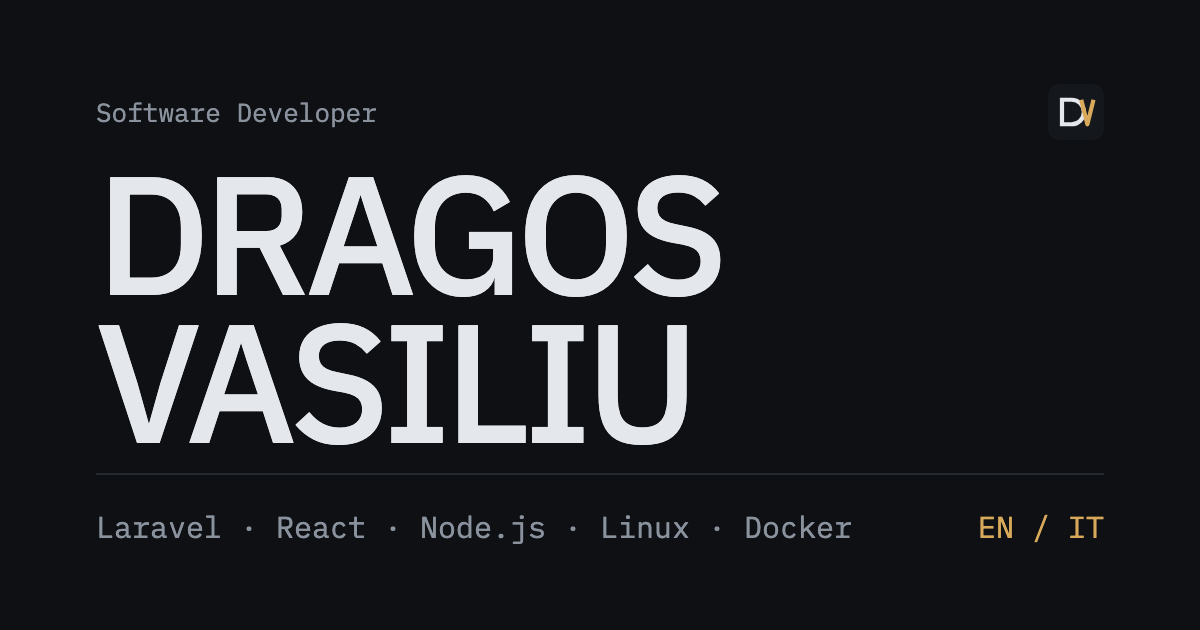
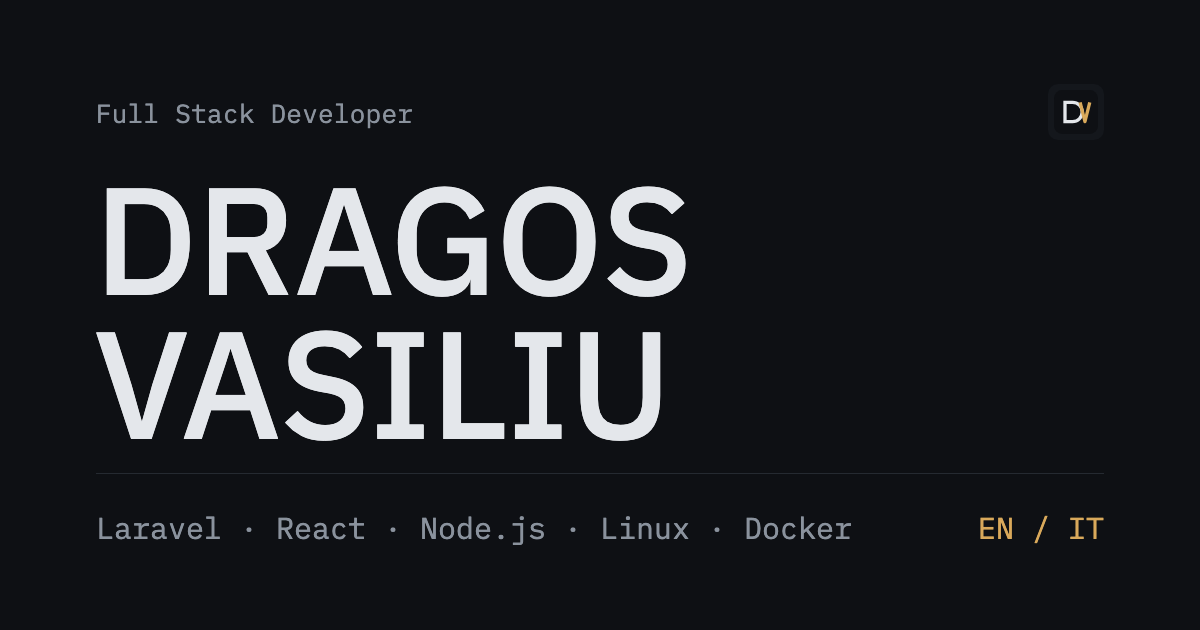
Update the role title, experience, projects, stack and education

diff --git a/src/data/experience.ts b/src/data/experience.ts
@@ -14,7 +14,7 @@ export interface Role {
 
 export const experience: Role[] = [
   {
-    role: 'Software Developer',
+    role: 'Full Stack Developer',
     company: 'PARENTESIKUADRA',
     start: '2023-12',
     end: null,
@@ -22,26 +22,30 @@ export const experience: Role[] = [
     arrangement: { en: 'Hybrid', it: 'Ibrido' },
     points: {
       en: [
-        'Develop and maintain Laravel applications in production, with React and Inertia.js frontends; main author of several of them and of the internal template new projects start from.',
-        'Sole developer of Klancy, a multi-tenant application built on WebSockets, including configuration and customisation for individual clients.',
+        'Develop and maintain Laravel applications in production, with React and Inertia.js frontends; main author of several of them and of the internal template 10 projects have started from.',
+        'Sole developer of Klancy, a multi-tenant SaaS used by dozens of clients, with thousands of orders a day. Migrated it from legacy PHP, with a separate repository per client, to a single codebase configured per tenant; WebSockets replaced polling.',
+        'Built a deployment panel that cut the installation of an accounting suite from 5–7 hours to under 20 minutes.',
         'Integrate external systems: Fluida and Tilby APIs, AHRW SOAP services, and XML files generated for import into G1.',
-        'Containerise applications with Docker, ship production releases, and maintain and migrate Linux/Plesk servers.',
+        'Containerise applications with Docker, ship production releases, and maintain and migrate 10 VPSs and the VMs on 2 company servers (Linux/Plesk).',
         'Diagnose frontend, backend and API issues, including Composer and npm dependency conflicts.',
+        'Work in periodic Agile sprints with colleagues on backend and frontend; helped train a junior developer in 2025–2026.',
         'Work with clients directly on requirements and support.',
       ],
       it: [
-        'Sviluppo e manutenzione di applicazioni Laravel in produzione, con frontend in React e Inertia.js; autore principale di diverse di queste e del template interno da cui partono i nuovi progetti.',
-        'Unico sviluppatore di Klancy, applicazione multi-tenant basata su WebSocket, incluse configurazioni e personalizzazioni per i singoli clienti.',
+        'Sviluppo e manutenzione di applicazioni Laravel in produzione, con frontend in React e Inertia.js; autore principale di diverse di queste e del template interno da cui sono partiti 10 progetti.',
+        'Unico sviluppatore di Klancy, SaaS multi-tenant usato da decine di clienti, con migliaia di ordini al giorno. Migrazione da PHP legacy, con un repository per ogni cliente, a un’unica codebase configurabile per cliente; i WebSocket hanno sostituito il polling.',
+        'Sviluppo di un pannello di deploy che ha ridotto l’installazione di una suite di contabilità da 5–7 ore a meno di 20 minuti.',
         'Integrazioni con sistemi esterni: API Fluida e Tilby, servizi SOAP AHRW e generazione di file XML per l’import in G1.',
-        'Containerizzazione con Docker, rilasci in produzione, manutenzione e migrazione di server Linux/Plesk.',
+        'Containerizzazione con Docker, rilasci in produzione, manutenzione e migrazione di 10 VPS e delle VM di 2 server aziendali (Linux/Plesk).',
         'Diagnosi di problemi frontend, backend e API, compresi i conflitti tra dipendenze Composer e npm.',
+        'Lavoro in Agile a sprint periodici con i colleghi su backend e frontend; contributo alla formazione di uno sviluppatore junior tra il 2025 e il 2026.',
         'Rapporto diretto con i clienti per requisiti e assistenza.',
       ],
     },
     tech: ['PHP', 'Laravel', 'React', 'Inertia.js', 'Node.js', 'PostgreSQL', 'MySQL', 'Redis', 'Docker', 'Linux', 'REST', 'Stripe', 'Pest', 'PHPStan', 'SOAP', 'XML', 'WebSockets', 'Electron'],
   },
   {
-    role: 'Junior Frontend Developer',
+    role: 'Junior Full Stack Developer',
     company: 'PARENTESIKUADRA',
     start: '2023-05',
     end: '2023-12',
@@ -49,15 +53,15 @@ export const experience: Role[] = [
     arrangement: { en: 'On-site · Internship', it: 'In sede · Tirocinio' },
     points: {
       en: [
-        'Built responsive React interfaces integrated with Laravel applications and backend services.',
-        'Frontend bug fixing and maintenance in a Git-based workflow.',
+        'Built a short-term rental management SaaS in Laravel and React: Booking and Airbnb reservations, Telegram notifications for managers and cleaning staff, tourist tax, invoice export to G1, charts and monthly statements for owners.',
+        'Digitised the production sheet of a legacy PHP application for a rubber goods manufacturer, replacing the paper one, and linked it to quotes; bug fixes and new features in its step-by-step configurator.',
       ],
       it: [
-        'Sviluppo di interfacce React responsive integrate con applicazioni Laravel e servizi backend.',
-        'Correzione di bug frontend e manutenzione con un flusso di lavoro basato su Git.',
+        'Sviluppo di un SaaS per la gestione di affitti brevi in Laravel e React: prenotazioni Booking e Airbnb, notifiche Telegram per gestori e personale delle pulizie, tassa di soggiorno, export delle fatture verso G1, grafici e rendiconti mensili per i proprietari.',
+        'Digitalizzazione della scheda di produzione in un’applicazione PHP legacy per un produttore di articoli in gomma, al posto di quella cartacea, collegata ai preventivi; correzione di bug e nuove funzionalità nel configuratore a step.',
       ],
     },
-    tech: ['React', 'JavaScript', 'HTML', 'CSS', 'Laravel', 'Git'],
+    tech: ['Laravel', 'React', 'PHP', 'JavaScript', 'Telegram', 'Git'],
   },
   {
     role: 'Junior Full Stack Developer',
@@ -68,14 +72,14 @@ export const experience: Role[] = [
     arrangement: { en: 'On-site · Full-time', it: 'In sede · Tempo pieno' },
     points: {
       en: [
-        'Developed Drupal web applications in PHP and worked on React Native mobile apps.',
-        'Bug fixes and small features, collaborating through Git.',
+        'Drupal back office for a rescue helicopter app that uses AI on images from nearby webcams to judge whether a mission can fly: PHP modules for feedback and email, CSS and JavaScript work on the operators’ interactive map.',
+        'eSports tournament app in React Native with a Drupal backend: tournament list and detail screens, credit purchases and a Stripe payment module.',
       ],
       it: [
-        'Sviluppo di applicazioni web Drupal in PHP e di app mobile in React Native.',
-        'Correzione di bug e piccole funzionalità, in collaborazione tramite Git.',
+        'Backoffice Drupal di un’app per il soccorso in elicottero che analizza con l’AI le immagini delle webcam vicine per capire se si può intervenire: moduli PHP per feedback e invio email, CSS e funzionalità JavaScript della mappa interattiva per gli operatori.',
+        'App per tornei eSports in React Native con backend Drupal: schermate dei tornei (lista e dettaglio), acquisto di crediti e modulo di pagamento Stripe.',
       ],
     },
-    tech: ['React Native', 'Drupal', 'PHP', 'JavaScript', 'SQL', 'Git'],
+    tech: ['React Native', 'Drupal', 'PHP', 'JavaScript', 'CSS', 'Stripe', 'Git'],
   },
 ];

diff --git a/src/data/projects.ts b/src/data/projects.ts
@@ -24,8 +24,8 @@ const all: Project[] = [
     year: '2023–',
     status: { en: 'In production', it: 'In produzione' },
     description: {
-      en: 'Subscription SaaS for restaurant kitchens: a live order dashboard, kitchen exit groups, network printer control and orders imported from the Tilby POS. Each tenant gets its own database, provisioned automatically. I am the only developer of the current Laravel and React version and keep it running.',
-      it: 'SaaS in abbonamento per le cucine dei ristoranti: dashboard degli ordini in tempo reale, gruppi di uscita, controllo delle stampanti di rete e ordini importati dalla cassa Tilby. Ogni tenant ha il suo database, creato in automatico. Sono l’unico sviluppatore della versione attuale in Laravel e React e ne seguo la gestione.',
+      en: 'Subscription SaaS for restaurant kitchens: a live order dashboard, kitchen exit groups, network printer control and orders imported from the Tilby POS. Each tenant gets its own database, provisioned automatically. Dozens of clients use it, with thousands of orders a day. I migrated it from legacy PHP, where every client had its own repository, to one codebase configured per tenant, with WebSockets in place of polling. I am the only developer and keep it running.',
+      it: 'SaaS in abbonamento per le cucine dei ristoranti: dashboard degli ordini in tempo reale, gruppi di uscita, controllo delle stampanti di rete e ordini importati dalla cassa Tilby. Ogni tenant ha il suo database, creato in automatico. Lo usano decine di clienti, con migliaia di ordini al giorno. L’ho migrato da PHP legacy, dove ogni cliente aveva il suo repository, a un’unica codebase configurabile per tenant, con i WebSocket al posto del polling. Sono l’unico sviluppatore e ne seguo la gestione.',
     },
     tech: ['Laravel', 'React', 'Inertia.js', 'Redis', 'WebSockets', 'PWA'],
   },
@@ -72,8 +72,8 @@ const all: Project[] = [
     year: '2026–',
     status: { en: 'Built in-house', it: 'Sviluppo interno' },
     description: {
-      en: 'Installs and maintains a vendor’s Tomcat-based HR applications on client servers, over SSH and VPN. Only allowlisted scripts run, as tracked jobs with live logs. Credentials are encrypted, backups and restores go through a queue, and installs can be dry-run first.',
-      it: 'Installa e mantiene le applicazioni HR su Tomcat di un fornitore sui server dei clienti, via SSH e VPN. Girano solo script ammessi, come job tracciati con log in diretta. Le credenziali sono cifrate, backup e ripristini passano da una coda e le installazioni si possono provare prima a vuoto.',
+      en: 'Installs and maintains a vendor’s Tomcat-based accounting suite on client servers, over SSH and VPN. Only allowlisted scripts run, as tracked jobs with live logs. Credentials are encrypted, backups and restores go through a queue, and installs can be dry-run first. An install that took 5–7 hours by hand now takes under 20 minutes.',
+      it: 'Installa e mantiene la suite di contabilità su Tomcat di un fornitore sui server dei clienti, via SSH e VPN. Girano solo script ammessi, come job tracciati con log in diretta. Le credenziali sono cifrate, backup e ripristini passano da una coda e le installazioni si possono provare prima a vuoto. Un’installazione che a mano richiedeva 5–7 ore ora ne richiede meno di 20 minuti.',
     },
     tech: ['React', 'Node.js', 'Fastify', 'BullMQ', 'Redis', 'PostgreSQL', 'Docker'],
   },
@@ -88,6 +88,18 @@ const all: Project[] = [
       it: 'Assistente locale che risponde a domande sulla documentazione di un gestionale e cita le fonti. Una pipeline di ingestione riproducibile reindicizza solo ciò che è cambiato; l’API è compatibile con OpenAI e gira su Metal, CUDA o CPU. Il prossimo passo è il retrieval a grafo.',
     },
     tech: ['Python', 'RAG', 'Qdrant', 'llama.cpp', 'Docker'],
+  },
+  {
+    slug: 'short-term-rentals',
+    name: { en: 'Short-term rental management', it: 'Gestione di affitti brevi' },
+    category: 'professional',
+    year: '2023',
+    status: { en: 'Internship', it: 'Tirocinio' },
+    description: {
+      en: 'SaaS for a company that manages holiday apartments on behalf of their owners. Reservations from Booking and Airbnb, Telegram messages for the manager and the cleaning staff, tourist tax, issued invoices exported to G1, and monthly statements with charts showing each owner what their apartments earned.',
+      it: 'SaaS per un’azienda che gestisce appartamenti per affitti brevi per conto dei proprietari. Prenotazioni da Booking e Airbnb, messaggi Telegram per il gestore e il personale delle pulizie, tassa di soggiorno, fatture emesse esportate verso G1 e rendiconti mensili con grafici che mostrano a ogni proprietario quanto hanno reso i suoi appartamenti.',
+    },
+    tech: ['Laravel', 'React', 'Inertia.js', 'Telegram', 'XML'],
   },
   {
     slug: 'portfolio',

diff --git a/src/i18n/it.ts b/src/i18n/it.ts
@@ -2,9 +2,9 @@ import type { Dictionary } from './en';
 
 const it: Dictionary = {
   meta: {
-    title: 'Dragos Vasiliu — Software Developer',
+    title: 'Dragos Vasiliu — Full Stack Developer',
     description:
-      'Dragos Vasiliu, Software Developer. Applicazioni web in produzione, integrazioni con sistemi esterni, server Linux, rilasci automatizzati e strumenti AI.',
+      'Dragos Vasiliu, Full Stack Developer. Applicazioni web in produzione, integrazioni con sistemi esterni, server Linux, rilasci automatizzati e strumenti AI.',
     ogLocale: 'it_IT',
   },
   a11y: {
@@ -22,7 +22,7 @@ const it: Dictionary = {
     sections: 'Sezioni',
   },
   hero: {
-    title: 'Software Developer',
+    title: 'Full Stack Developer',
     lead: 'Lavoro su tutto lo stack, dove serve: le applicazioni web che i clienti usano ogni giorno, le integrazioni con sistemi esterni, i server Linux su cui girano e le pipeline che le rilasciano. In parallelo, strumenti AI.',
     viewWork: 'Vedi i progetti',
     downloadCv: 'Scarica CV',
@@ -33,7 +33,7 @@ const it: Dictionary = {
     body: [
       'In PARENTESIKUADRA scrivo e mantengo gestionali in Laravel con frontend React e Inertia.js, e di diversi sono l’autore principale: tra questi Klancy, una piattaforma multi-tenant basata su WebSocket. Li collego a pagamenti, webhook, API e servizi SOAP esterni e curo i rilasci in prima persona.',
       'Mi occupo anche di quello che succede dopo. Se una pagina è lenta, un aggiornamento delle dipendenze rompe la build o un deploy si fa ancora a mano, cerco il perché e lo sistemo lì, senza toppe. Le applicazioni girano in Docker su server Linux, che mantengo e migro. Scrivo test con PHPUnit, Pest e Vitest, e lavoro anche su codice PHP legacy.',
-      'Parlo direttamente con i clienti, quindi requisiti, codice e assistenza restano nelle stesse mani. In parallelo realizzo prototipi con LLM, agenti AI, MCP e RAG, soprattutto per la ricerca nei documenti e per automatizzare parte del mio lavoro.',
+      'Parlo direttamente con i clienti, quindi requisiti, codice e assistenza restano nelle stesse mani. Con i colleghi lavoro su backend e frontend condivisi a sprint periodici, e tra il 2025 e il 2026 ho contribuito alla formazione di uno sviluppatore junior. In parallelo realizzo prototipi con LLM, agenti AI, MCP e RAG, soprattutto per la ricerca nei documenti e per automatizzare parte del mio lavoro.',
     ],
     languages: 'Lingue',
     education: 'Formazione',

diff --git a/src/i18n/en.ts b/src/i18n/en.ts
@@ -1,9 +1,9 @@
 // UI copy for English. The Italian file must satisfy the same shape (see `Dictionary`).
 const en = {
   meta: {
-    title: 'Dragos Vasiliu — Software Developer',
+    title: 'Dragos Vasiliu — Full Stack Developer',
     description:
-      'Dragos Vasiliu, Software Developer. Web applications in production, integrations with external systems, Linux servers, automated releases and AI tooling.',
+      'Dragos Vasiliu, Full Stack Developer. Web applications in production, integrations with external systems, Linux servers, automated releases and AI tooling.',
     ogLocale: 'en_GB',
   },
   a11y: {
@@ -21,7 +21,7 @@ const en = {
     sections: 'Sections',
   },
   hero: {
-    title: 'Software Developer',
+    title: 'Full Stack Developer',
     lead: 'I work across the stack, wherever the problem is: the web applications clients use every day, their integrations with external systems, the Linux servers they run on and the pipelines that ship them. On the side, AI tools.',
     viewWork: 'View work',
     downloadCv: 'Download CV',
@@ -32,7 +32,7 @@ const en = {
     body: [
       'At PARENTESIKUADRA I build and maintain Laravel business applications with React and Inertia.js frontends, and I am the main author of several of them, Klancy among them: a multi-tenant platform built on WebSockets. I connect them to payments, webhooks, third-party APIs and SOAP services, and I handle the releases myself.',
       'I also look after what happens once they are live. When a page is slow, a dependency upgrade breaks the build or a deploy is still done by hand, I track down why and fix it there, not with a workaround. The applications run in Docker on Linux servers that I maintain and migrate. I write tests with PHPUnit, Pest and Vitest, and I also work on legacy PHP code.',
-      'I talk to clients directly, so requirements, code and support stay with one person. On the side I build prototypes with LLMs, AI agents, MCP and RAG, mostly to search documents and to automate parts of my own workflow.',
+      'I talk to clients directly, so requirements, code and support stay with one person. With colleagues I work on shared backends and frontends in periodic sprints, and in 2025–2026 I helped train a junior developer. On the side I build prototypes with LLMs, AI agents, MCP and RAG, mostly to search documents and to automate parts of my own workflow.',
     ],
     languages: 'Languages',
     education: 'Education',

diff --git a/src/data/stack.ts b/src/data/stack.ts
@@ -10,13 +10,13 @@ export interface Layer {
 export const layers: Layer[] = [
   {
     name: { en: 'Interface', it: 'Interfaccia' },
-    note: { en: 'Web and desktop UIs, data-heavy tables, responsive layouts.', it: 'Interfacce web e desktop, tabelle con molti dati, layout responsive.' },
-    tech: ['React', 'Inertia.js', 'JavaScript', 'TypeScript', 'HTML', 'CSS', 'Tailwind CSS', 'TanStack Table', 'PWA', 'Electron'],
+    note: { en: 'Web, desktop and mobile UIs, data-heavy tables, responsive layouts.', it: 'Interfacce web, desktop e mobile, tabelle con molti dati, layout responsive.' },
+    tech: ['React', 'Inertia.js', 'JavaScript', 'TypeScript', 'HTML', 'CSS', 'Tailwind CSS', 'TanStack Table', 'PWA', 'Electron', 'React Native'],
   },
   {
     name: { en: 'Application', it: 'Applicazione' },
     note: { en: 'Business logic, background work, real-time, tests and static analysis.', it: 'Logica applicativa, processi in background, tempo reale, test e analisi statica.' },
-    tech: ['PHP', 'Laravel', 'Laravel Reverb', 'Node.js', 'Fastify', 'BullMQ', 'Python', 'FastAPI', 'Composer', 'npm', 'PHPUnit', 'Pest', 'Vitest', 'PHPStan'],
+    tech: ['PHP', 'Laravel', 'Laravel Reverb', 'Drupal', 'Node.js', 'Fastify', 'BullMQ', 'Python', 'FastAPI', 'Composer', 'npm', 'PHPUnit', 'Pest', 'Vitest', 'PHPStan'],
   },
   {
     name: { en: 'Data', it: 'Dati' },
@@ -26,7 +26,7 @@ export const layers: Layer[] = [
   {
     name: { en: 'Integrations', it: 'Integrazioni' },
     note: { en: 'Talking to third-party systems.', it: 'Comunicazione con sistemi di terze parti.' },
-    tech: ['REST', 'Webhooks', 'Stripe', 'SOAP', 'WebSockets', 'XML'],
+    tech: ['REST', 'Webhooks', 'Stripe', 'SOAP', 'WebSockets', 'XML', 'Telegram'],
   },
   {
     name: { en: 'Systems', it: 'Sistemi' },

diff --git a/src/data/profile.ts b/src/data/profile.ts
@@ -9,14 +9,14 @@ import type { Localized } from '~/i18n';
  */
 export const profile = {
   name: 'Dragos Vasiliu',
-  jobTitle: 'Software Developer',
+  jobTitle: 'Full Stack Developer',
   location: {
     city: 'Monferrato',
     region: { en: 'Piedmont', it: 'Piemonte' } as Localized,
     countryCode: 'IT',
     timeZone: 'Europe/Rome',
   },
-  current: { role: 'Software Developer', company: 'PARENTESIKUADRA' },
+  current: { role: 'Full Stack Developer', company: 'PARENTESIKUADRA' },
 
   email: 'vasiliu.petru.dragos@gmail.com' as string | null,
   github: 'https://github.com/DragosAlien' as string | null,
@@ -31,11 +31,18 @@ export const profile = {
     { name: { en: 'English', it: 'Inglese' }, level: { en: 'B2', it: 'B2' } },
   ] satisfies { name: Localized; level: Localized }[],
 
-  education: {
-    title: { en: 'Diploma in Computer Science', it: 'Diploma in Informatica' } as Localized,
-    school: 'ITIS Ascanio Sobrero, Casale Monferrato',
-    years: '2014–2019',
-  },
+  education: [
+    {
+      title: { en: 'Computer Science degree course, three years attended', it: 'Corso di laurea in Informatica, tre anni frequentati' },
+      school: 'Università degli Studi di Torino',
+      years: '2019–2022',
+    },
+    {
+      title: { en: 'Diploma in Computer Science', it: 'Diploma in Informatica' },
+      school: 'ITIS Ascanio Sobrero, Casale Monferrato',
+      years: '2014–2019',
+    },
+  ] satisfies { title: Localized; school: string; years: string }[],
 };
 
 /** This site's repository. */

diff --git a/docs/style.md b/docs/style.md
@@ -1,6 +1,6 @@
 # Portfolio style
 
-A technical personal portfolio for Dragos Vasiliu, Software Developer (a generalist: web apps, integrations, Linux, Docker, AI tooling).
+A technical personal portfolio for Dragos Vasiliu, Full Stack Developer (a generalist: web apps, integrations, Linux, Docker, AI tooling).
 Readers: recruiters, engineering teams, developers arriving from GitHub. It should read like the site of someone who
 builds and operates software, not a marketing page.
 
